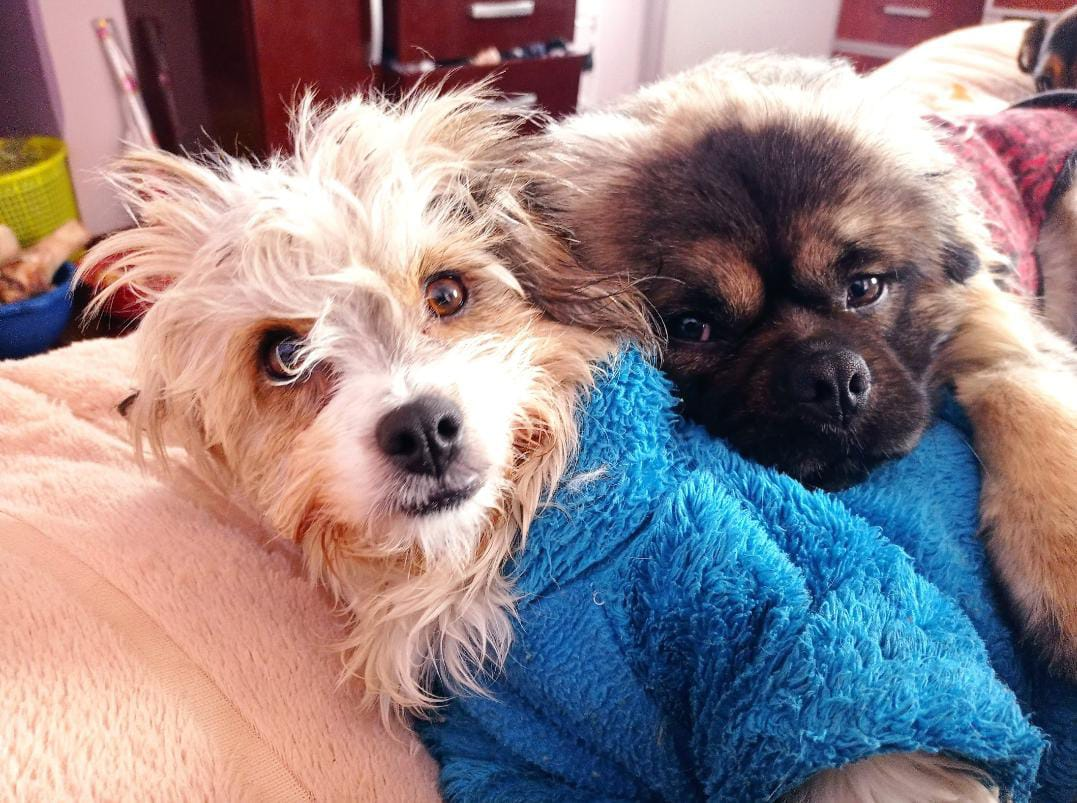
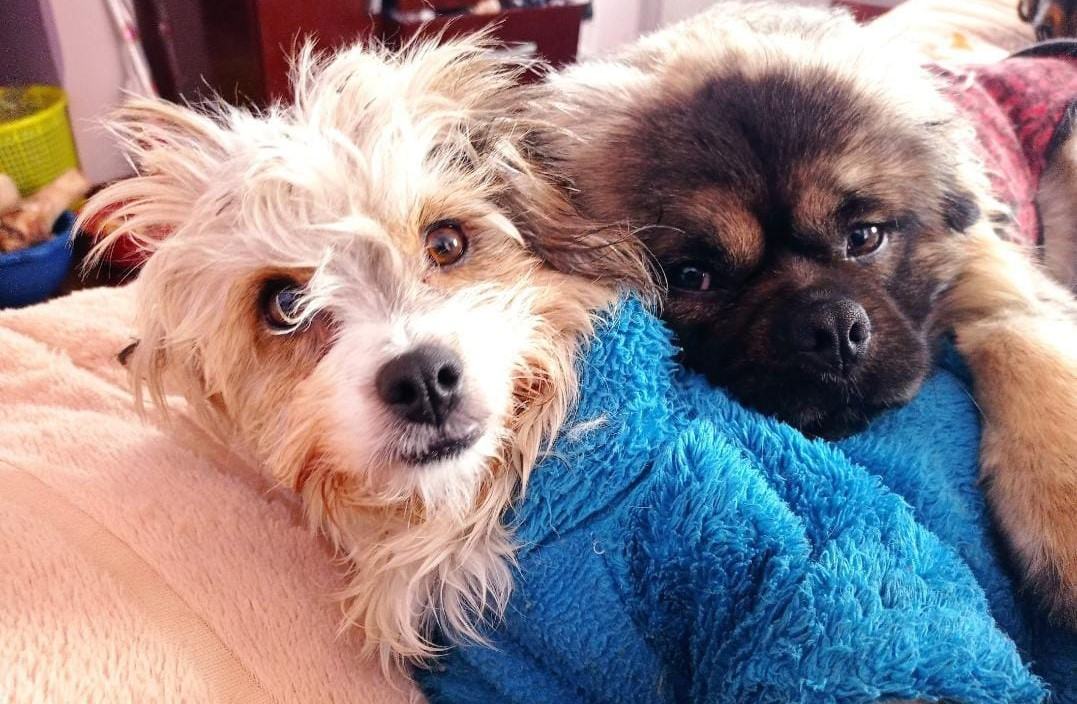
img, voluntario, estilazos
recortando las imágenes, realizando cambios en la página voluntario y cambios en el estilo (margenes)

diff --git a/style/estilazos.css b/style/estilazos.css
@@ -111,7 +111,7 @@
 /***************************VOLUNTARIADO**************************/
 .voluntariado {
   max-width: 100%;
-  padding: 10px; /* Ajusta el relleno según sea necesario */
+  padding: 8px; /* Ajusta el relleno según sea necesario */
   box-sizing: border-box;
 }
 
@@ -120,7 +120,7 @@
   display: flex;
   justify-content: space-between;
   align-items: center;
-  padding: 20px;
+  padding: 15px;
 }
 
 .importancia-voluntariado .imagen {
@@ -132,7 +132,6 @@ display: flex;	/*uno a lado del otro*/
 .imagen{
   background: #f8f5df;  
   flex: 1 1 40%;
-  margin: 8px;
   padding: 30px;
 }
     .imagen img{
@@ -143,8 +142,8 @@ display: flex;	/*uno a lado del otro*/
 .texto{
   background: #f8f5df;  
     flex: 1 1 60%;
-    margin: 8px;
-    padding: 50px;
+    margin: 3px;
+    padding: 40px;
 }
 .texto h2 {
     font-size: 26px; 
@@ -161,9 +160,10 @@ display: flex;	/*uno a lado del otro*/
 
 /* Columnas */
 .unete-voluntarios {
-background: #f8f5df;
+  background: #f8f5df;
+  margin-bottom: 120px; /* margen inferior */
   text-align: center;
-  padding: 15px;    
+  padding: 10px;    
 }
 
 .unete-voluntarios h2 {
@@ -171,23 +171,22 @@ background: #f8f5df;
 }
 
 .columnas {
+  margin-bottom: 25px; /* espacio entre columnas */
   display: flex;
   justify-content: space-around;
   align-items: center;
   flex-wrap: wrap;
-  padding: 20px;
+  padding: 10x;
 }
 
 .columna {
   flex: 1;
   text-align: center;
-  padding: 10px;
-  margin: 2%;
+  padding: 8px;
 }
 
 .columna img {
   max-width: 100%;
   height: 100%;
-  margin: 2%;
   object-fit: cover;
 }    

diff --git a/voluntario.html b/voluntario.html
@@ -59,7 +59,8 @@
                     <img src="img/paseador-perros.jpeg" alt="Paseadores de perros">
                     <h3>Paseador de perros</h3>
                     <p>Cada paseo es una aventura para ellos y una experiencia gratificante para ti. Ayudarás a aliviar el estrés, aumentar las posibilidades de adopción y hacer que sus colas se muevan con alegría. ¡Haz una diferencia real y diviértete al mismo tiempo! ¡Esperamos verte pronto, caminando con una sonrisa y una cola feliz junto a ti!</p>
-                    <br><button><a href="#">¡Sé un héroe peludo! Únete como voluntario ahora</a></button>
+                    <br><h4>¡Sé un héroe peludo! Únete como voluntario ahora!</h4>
+                    <button><a href="#"></a>Contáctanos</button>
                 </div>
                 <div class="columna">
                     <img src="img/cuidador-gatos.jpeg" alt="Cuidadores de gatos">
